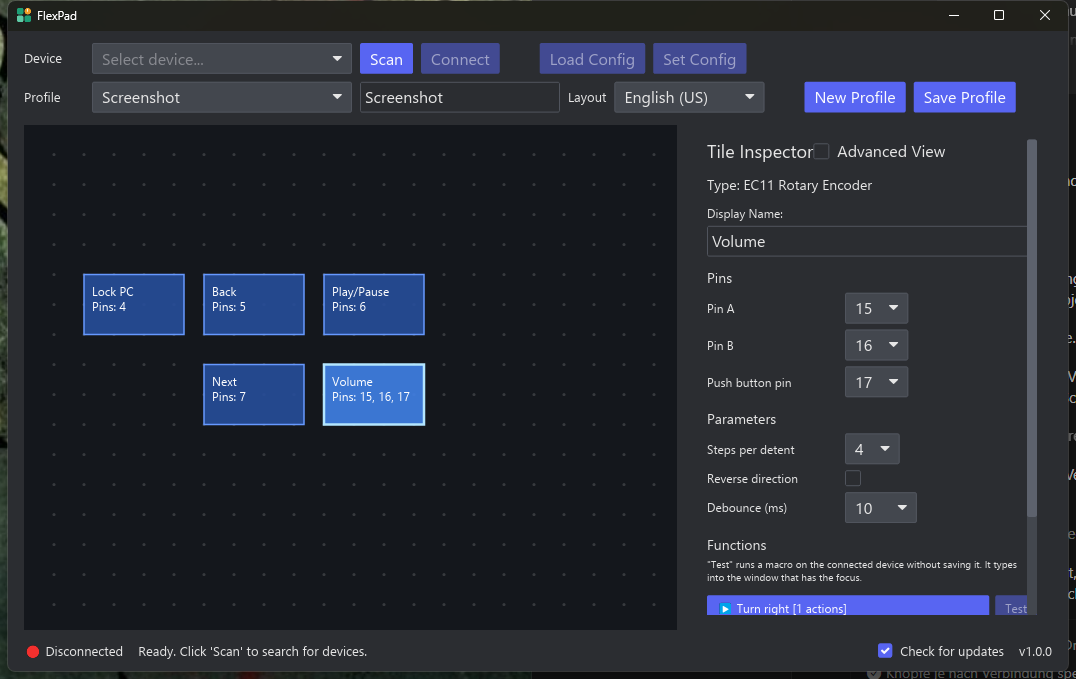
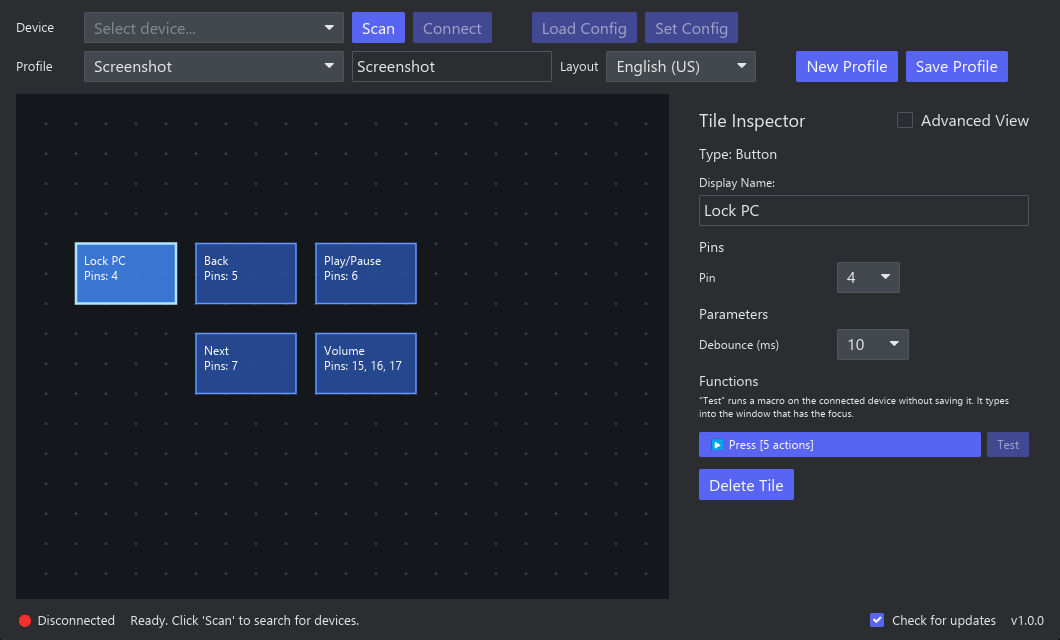
Show both screenshots and mark build sections for the website

diff --git a/README.md b/README.md
@@ -1,6 +1,8 @@
 # <img src="assets/logo.svg" alt="" width="40" align="center"> FlexPad
 
+<!-- web:skip -->
 [English](#english) · [Deutsch](#deutsch)
+<!-- /web:skip -->
 
 ## English
 
@@ -8,10 +10,10 @@ FlexPad is a freely configurable macro pad based on the ESP32-S3. The board acts
 
 > Not affiliated with or endorsed by Espressif Systems.
 
-<picture>
-  <source media="(prefers-color-scheme: dark)" srcset="assets/screenshot-dark.png">
-  <img src="assets/screenshot-light.png" alt="FlexPad configurator with five tiles and the Tile Inspector">
-</picture>
+<p>
+  <img src="assets/screenshot-light.png" alt="FlexPad configurator with five tiles and the Tile Inspector (light mode)" width="49%">
+  <img src="assets/screenshot-dark.png" alt="FlexPad configurator with five tiles and the Tile Inspector (dark mode)" width="49%">
+</p>
 
 ### Features
 - Up to 25 inputs on one ESP32-S3: push buttons and EC11 rotary encoders
@@ -117,6 +119,8 @@ Key names describe the physical key position on a US keyboard, using the names o
 - Profiles and settings are stored per user: on Windows in `%APPDATA%\FlexPad`, on macOS in `~/Library/Application Support/FlexPad`, on Linux settings in `~/.config/flexpad` and profiles in `~/.local/share/flexpad` (or the folders set in `XDG_CONFIG_HOME` and `XDG_DATA_HOME`). Files from the folder `FlexPad` in the home directory used by earlier versions are moved there once on start. The device stores the complete profile you send to it, so **Load Config** shows the same profile on any computer. Older profiles are converted to the current format when loaded.
 - The device identifies itself with a serial number derived from the chip's MAC address.
 
+<!-- web:skip -->
+
 ### Building
 #### Desktop app
 Requires [Rust](https://www.rust-lang.org/tools/install) 1.88 or newer (edition 2024). On Linux, the serial port library also needs `libudev` (e.g. `sudo apt install libudev-dev pkg-config`).
@@ -157,6 +161,8 @@ After flashing, press **RESET** (or unplug the board briefly) to start the firmw
 #### Releases
 A new version in `flexpad-desktop/Cargo.toml` and `flexpad-firmware/Cargo.toml` (a test and the release workflow check that both and the newest changelog section match) together with a section for it in [CHANGELOG.md](CHANGELOG.md) creates a release when merged into `main`; the changelog section becomes the release notes. Changes without a new version are collected under `[Unreleased]`; a release fails while that section still has entries, so they have to be moved into the section of the new version. Versions `0.x` and versions with a suffix like `1.1.0-beta.1` are published as pre-releases.
 
+<!-- /web:skip -->
+
 ### License
 [MIT](LICENSE)
 
@@ -166,10 +172,10 @@ FlexPad ist ein frei konfigurierbares Makropad auf Basis des ESP32-S3. Das Board
 
 > Keine Verbindung zu Espressif Systems und nicht von Espressif unterstützt.
 
-<picture>
-  <source media="(prefers-color-scheme: dark)" srcset="assets/screenshot-dark.png">
-  <img src="assets/screenshot-light.png" alt="FlexPad-Konfigurator mit fünf Kacheln und dem Tile Inspector">
-</picture>
+<p>
+  <img src="assets/screenshot-light.png" alt="FlexPad-Konfigurator mit fünf Kacheln und dem Tile Inspector (heller Modus)" width="49%">
+  <img src="assets/screenshot-dark.png" alt="FlexPad-Konfigurator mit fünf Kacheln und dem Tile Inspector (dunkler Modus)" width="49%">
+</p>
 
 ### Funktionen
 - Bis zu 25 Eingänge an einem ESP32-S3: Taster und EC11-Drehencoder
@@ -275,6 +281,8 @@ Tastennamen beschreiben die physische Tastenposition auf einer US-Tastatur, mit 
 - Profile und Einstellungen liegen pro Benutzer unter Windows in `%APPDATA%\FlexPad`, unter macOS in `~/Library/Application Support/FlexPad`, unter Linux die Einstellungen in `~/.config/flexpad` und die Profile in `~/.local/share/flexpad` (bzw. in den Ordnern aus `XDG_CONFIG_HOME` und `XDG_DATA_HOME`). Dateien aus dem Ordner `FlexPad` im Benutzerverzeichnis, den frühere Versionen nutzten, werden beim Start einmalig dorthin verschoben. Das Gerät speichert das komplette Profil, das man ihm schickt; **Load Config** zeigt daher an jedem Rechner dasselbe Profil. Ältere Profile werden beim Laden ins aktuelle Format übernommen.
 - Das Gerät meldet sich mit einer Seriennummer, die aus der MAC-Adresse des Chips gebildet wird.
 
+<!-- web:skip -->
+
 ### Bauen
 #### Desktop-App
 Voraussetzung ist [Rust](https://www.rust-lang.org/tools/install) 1.88 oder neuer (Edition 2024). Unter Linux braucht die Seriell-Bibliothek zusätzlich `libudev` (z. B. `sudo apt install libudev-dev pkg-config`).
@@ -314,6 +322,8 @@ Nach dem Flashen **RESET** drücken (oder das Board kurz abziehen), damit die Fi
 
 #### Releases
 Eine neue Version in `flexpad-desktop/Cargo.toml` und `flexpad-firmware/Cargo.toml` (ein Test und der Release-Workflow prüfen, dass beide und der neueste Changelog-Abschnitt übereinstimmen) zusammen mit einem Abschnitt dafür in der [CHANGELOG.md](CHANGELOG.md) erzeugt beim Merge in `main` ein Release; der Changelog-Abschnitt wird zu den Release-Notizen. Änderungen ohne neue Version stehen unter `[Unreleased]`; ein Release schlägt fehl, solange dieser Abschnitt noch Einträge hat, sie müssen also in den Abschnitt der neuen Version verschoben werden. Versionen `0.x` und Versionen mit Zusatz wie `1.1.0-beta.1` erscheinen als Vorabversion.
+
+<!-- /web:skip -->
 
 ### Lizenz
 [MIT](LICENSE)
